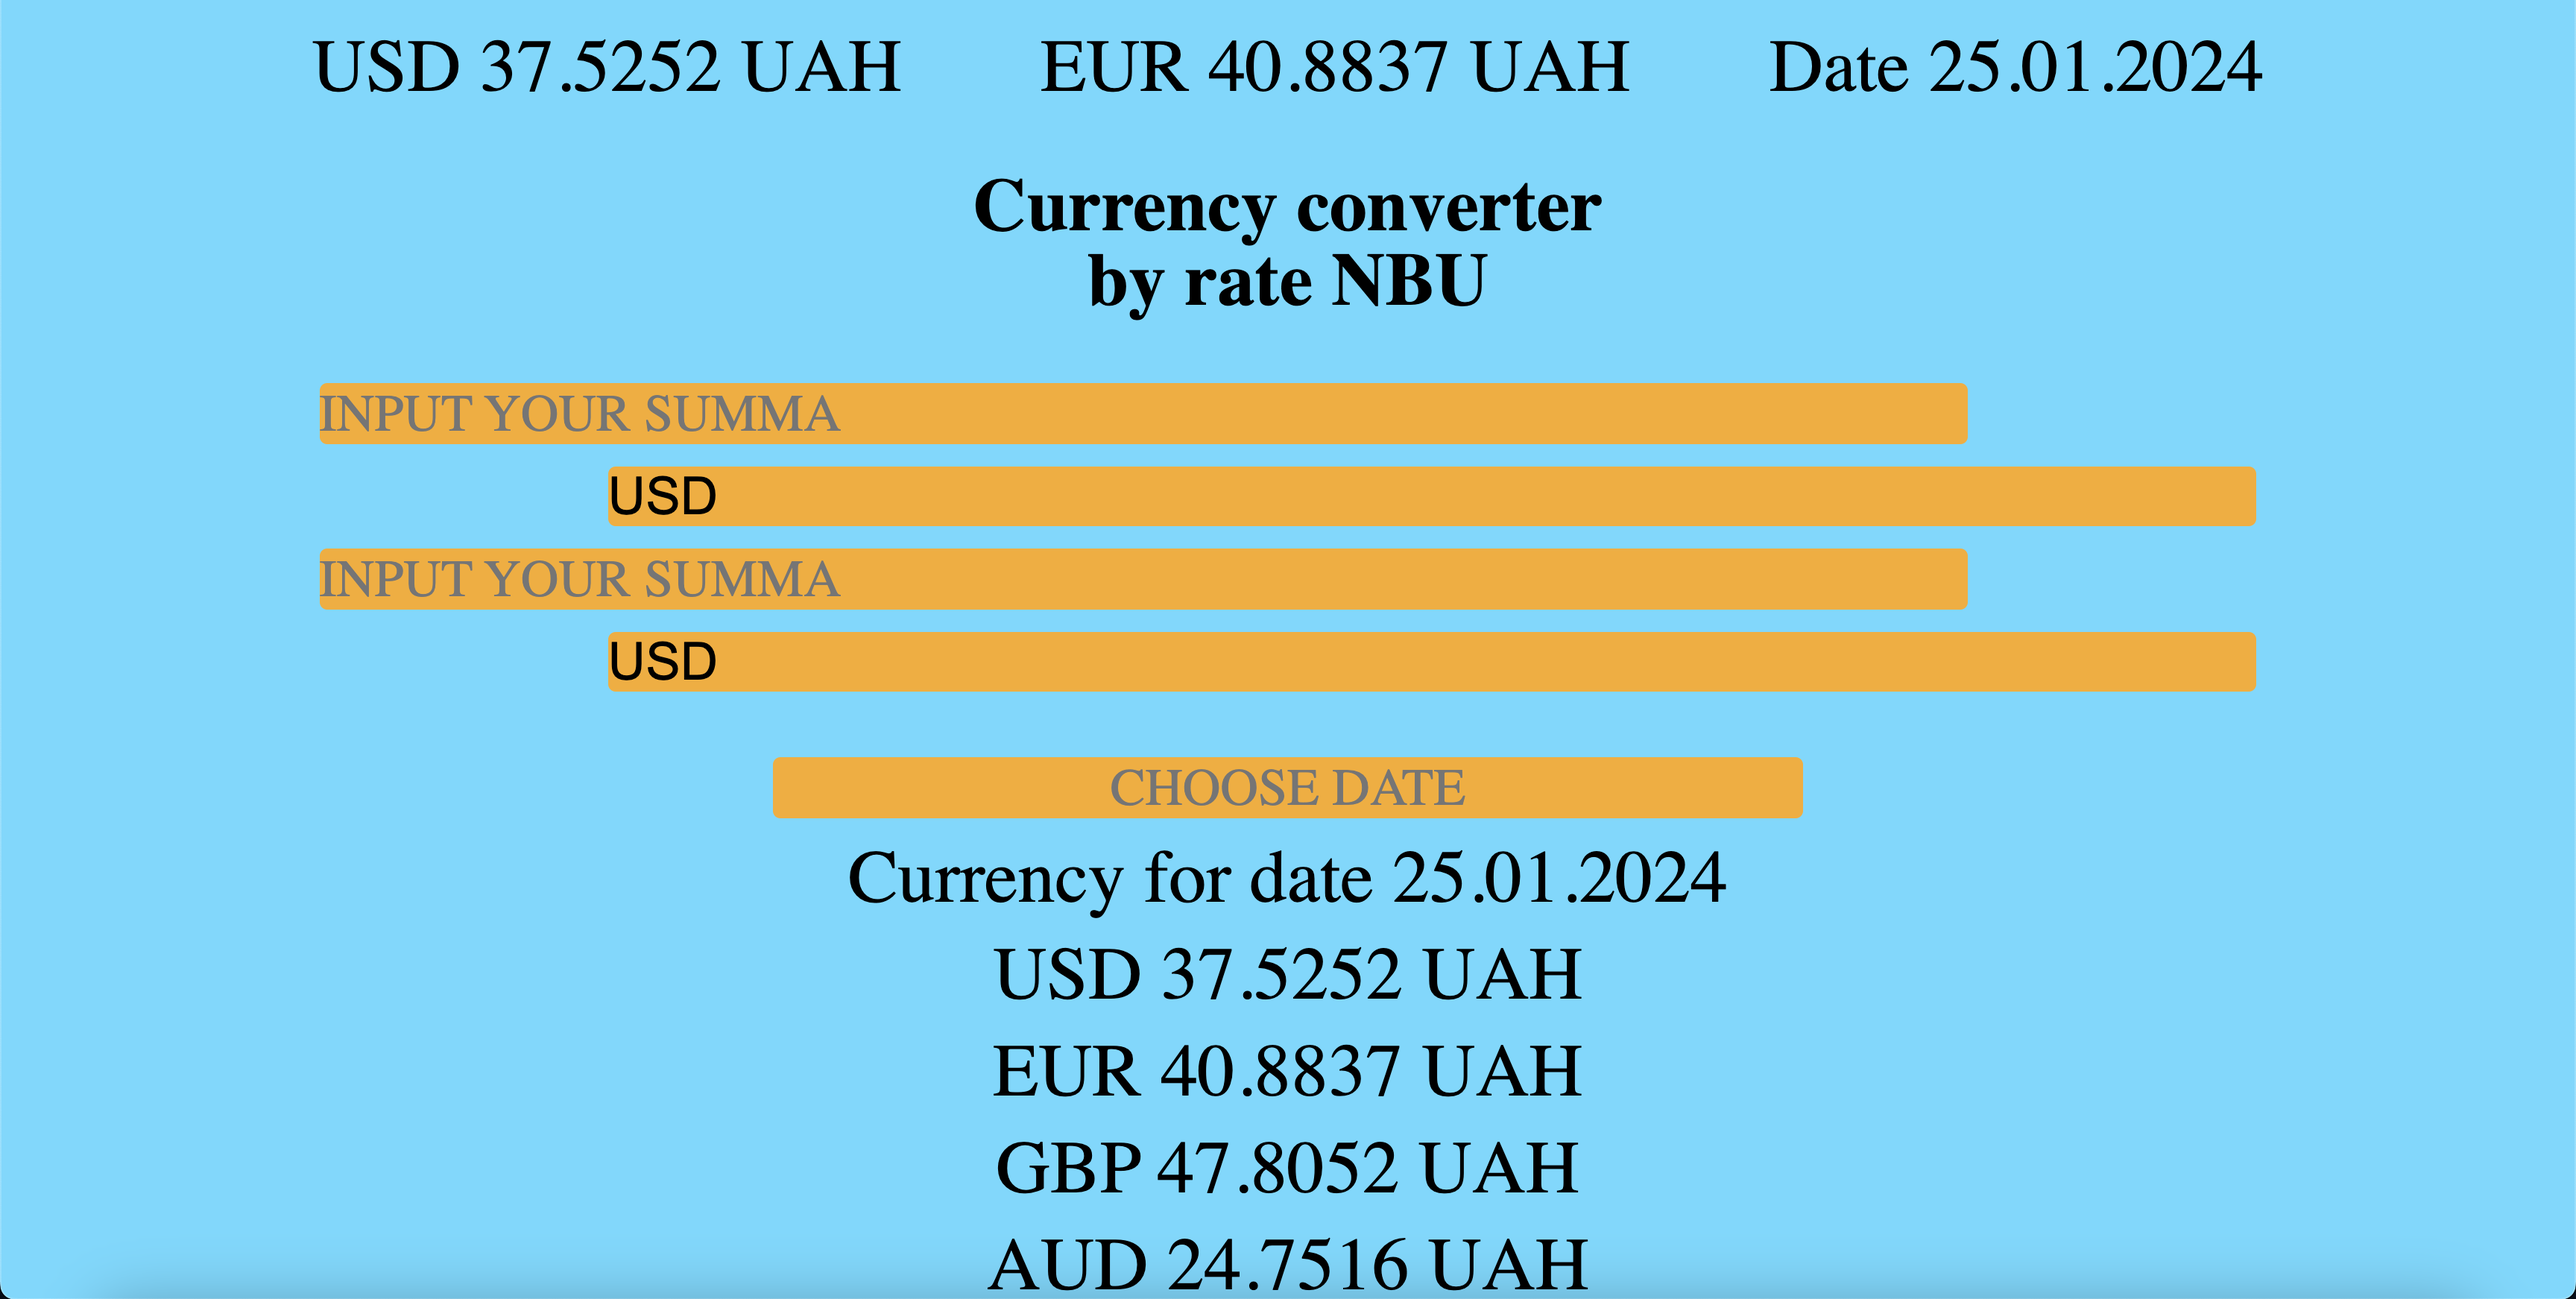
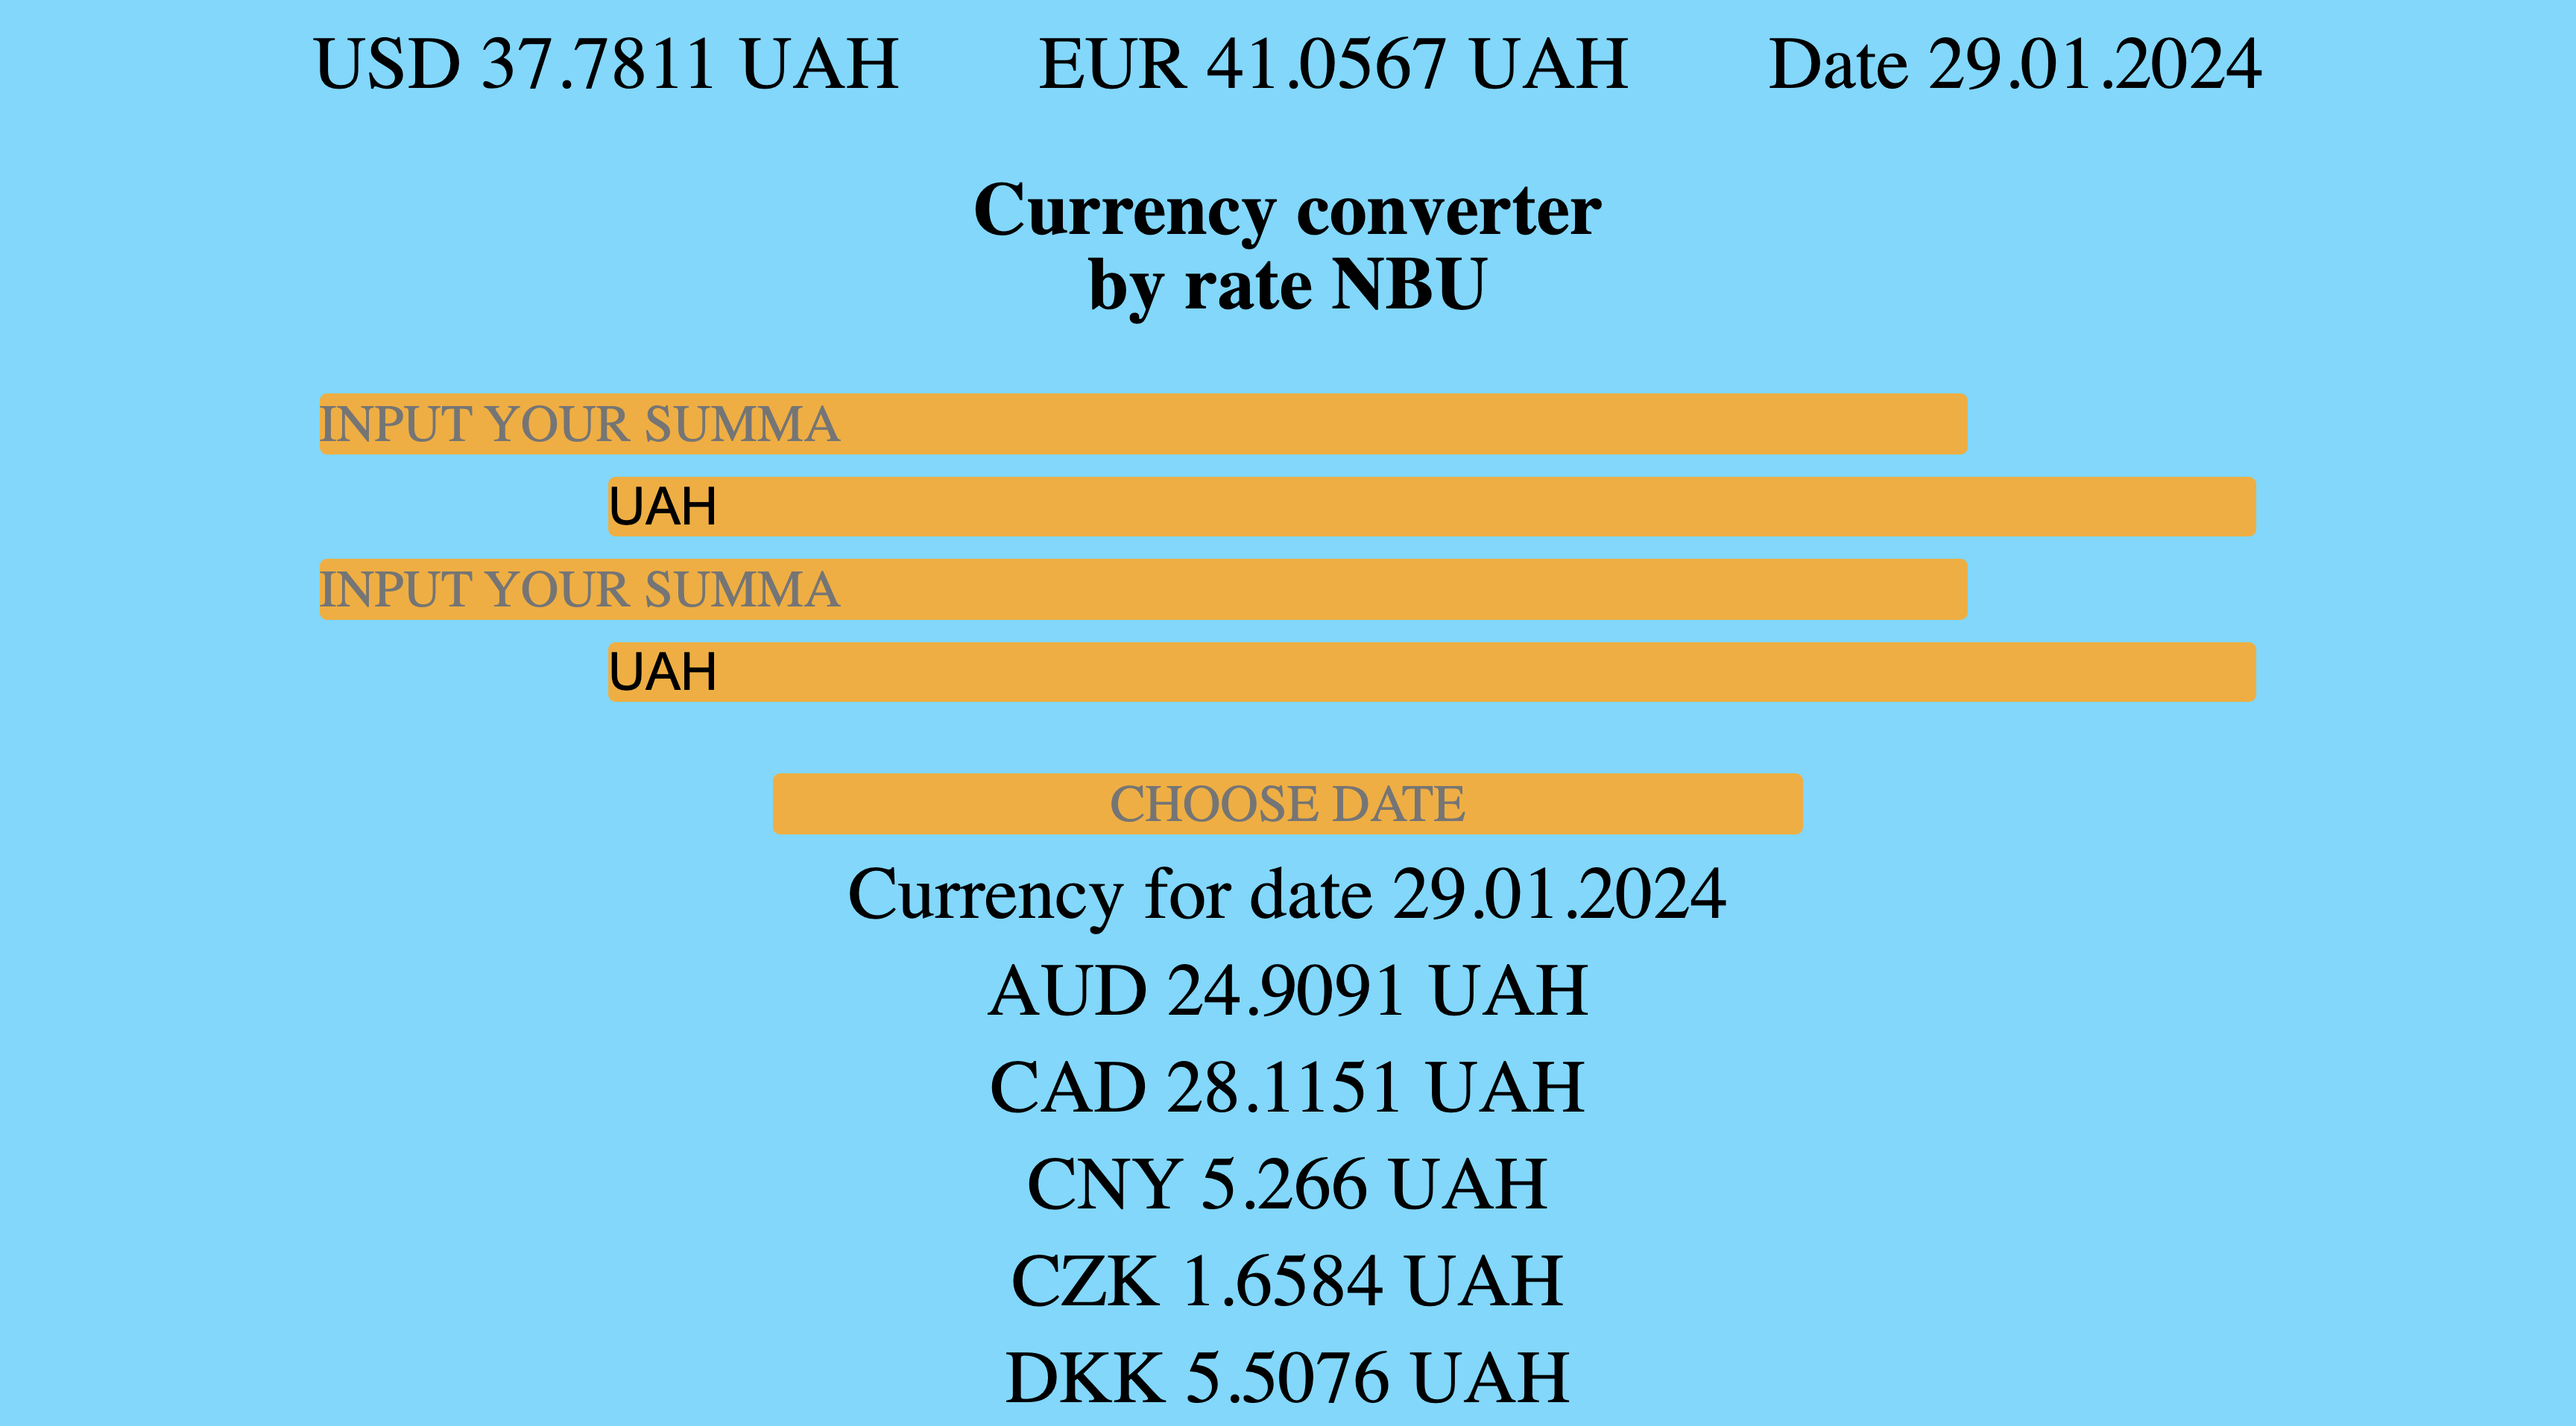
fix a bug, add new currensy

diff --git a/src/app/app.component.ts b/src/app/app.component.ts
@@ -1,4 +1,4 @@
-import { AfterViewChecked, ChangeDetectorRef, Component, DoCheck, OnChanges, SimpleChanges } from '@angular/core';
+import { AfterViewChecked, ChangeDetectorRef, Component } from '@angular/core';
 import { BankNBUService } from './services/bankNBU/bank-nbu.service';
 import { Currency } from './models/currency';
 
@@ -22,6 +22,7 @@ export class AppComponent implements AfterViewChecked {
   private tempSecond: number = 0;
 
   date: string = "";
+  isReset: boolean = false;
   resultFirst: number | null = null;
   resultSecond: number | null = null;
 
@@ -30,8 +31,8 @@ export class AppComponent implements AfterViewChecked {
       this.currency = result;
     });
 
-    this.firstSelect = 'USD';
-    this.secondSelect = 'USD';
+    this.firstSelect = 'UAH';
+    this.secondSelect = 'UAH';
 
     this.firstMap.set('firstSumma', this.firstSumma)
     this.firstMap.set('firstSelect', this.firstSelect)
@@ -43,7 +44,6 @@ export class AppComponent implements AfterViewChecked {
   }
 
   ngAfterViewChecked(): void {
-
     this.isTru();
     this.currencyConverter();
     this.changeDetector.detectChanges();
@@ -73,59 +73,61 @@ export class AppComponent implements AfterViewChecked {
       this.firstMap.set('first', true)
     } else if (this.firstMap.get('firstSelect') != this.firstSelect) {
       this.firstMap.set('firstSelect', this.firstSelect);
-      this.firstMap.set('first', true)
+      this.firstMap.set('first', false)
+      this.secondMap.set('second', false);
+      this.isReset = !this.isReset;
+      return;
     } else if (this.secondMap.get('secondSumma') != this.secondSumma) {
       this.secondMap.set('secondSumma', this.secondSumma);
       this.secondMap.set('second', true);
     } else if (this.secondMap.get('secondSelect') != this.secondSelect) {
       this.secondMap.set('secondSelect', this.secondSelect);
-      this.secondMap.set('second', true);
+      this.firstMap.set('first', false)
+      this.secondMap.set('second', false);
+      this.isReset = !this.isReset;
+      return;
     }
   }
 
-  private currencyConverter() {
+  private currencyConverter(): void {
     this.firstInput();
     this.secondInput();
     this.checkUAH();
   }
 
   private firstInput() {
-    if (this.firstMap.get('first')
-      && this.firstSelect !== 'UAH' && this.secondSelect !== 'UAH') {
+    if (this.firstMap.get('first') && this.firstSelect !== 'UAH' && this.secondSelect !== 'UAH') {
       if (this.firstSelect === this.secondSelect) {
         this.firstMap.set('first', false);
         this.resultSecond = this.firstSumma;
-        this.secondSumma = this.firstSumma;
         return;
       } else if (this.firstSumma === 0 || !this.firstSumma) {
+        this.firstMap.set('first', false);
         return;
       }
       this.tempFirst = this.findCurrency(this.firstSelect) * this.firstSumma;
       this.tempSecond = this.findCurrency(this.secondSelect) * this.firstSumma;
       this.resultSecond = Number(parseFloat(String(this.tempFirst / this.tempSecond * this.firstSumma)).toFixed(4));
 
-      this.secondSumma = this.resultSecond;
       this.firstMap.set('first', false);
       return;
     }
   }
 
   private secondInput() {
-    if (this.secondMap.get('second')
-      && this.firstSelect !== 'UAH' && this.secondSelect !== 'UAH') {
+    if (this.secondMap.get('second') && this.firstSelect !== 'UAH' && this.secondSelect !== 'UAH') {
       if (this.secondSelect === this.firstSelect) {
         this.secondMap.set('second', false)
         this.resultFirst = this.secondSumma;
-        this.firstSumma = this.secondSumma;
         return;
       } else if (this.secondSumma === 0 || !this.secondSumma) {
+        this.secondMap.set('second', false)
         return;
       }
       this.tempFirst = this.findCurrency(this.firstSelect) * this.secondSumma;
       this.tempSecond = this.findCurrency(this.secondSelect) * this.secondSumma;
       this.resultFirst = Number(parseFloat(String(this.tempSecond / this.tempFirst * this.secondSumma)).toFixed(4));
 
-      this.firstSumma = this.resultFirst;
       this.secondMap.set('second', false)
       return;
     }
@@ -135,33 +137,37 @@ export class AppComponent implements AfterViewChecked {
     if (this.firstSelect === 'UAH' && this.secondSelect !== 'UAH') {
       if (this.firstMap.get('first')) {
         if (!this.firstSumma) {
+          this.firstMap.set('first', false);
           return;
         }
         this.resultSecond = Number(parseFloat(String(this.firstSumma / this.findCurrency(this.secondSelect))).toFixed(4));
-        this.secondSumma = this.resultSecond;
+
         this.firstMap.set('first', false);
       } else if (this.secondMap.get('second')) {
         if (!this.secondSumma) {
+          this.secondMap.set('second', false)
           return;
         }
         this.resultFirst = Number(parseFloat(String(this.secondSumma * this.findCurrency(this.secondSelect))).toFixed(4));
-        this.firstSumma = this.resultFirst;
+
         this.secondMap.set('second', false)
       }
     } else if (this.firstSelect !== 'UAH' && this.secondSelect === 'UAH') {
       if (this.firstMap.get('first')) {
         if (!this.firstSumma) {
+          this.firstMap.set('first', false);
           return;
         }
         this.resultSecond = Number(parseFloat(String(this.firstSumma * this.findCurrency(this.firstSelect))).toFixed(4));
-        this.secondSumma = this.resultSecond;
+
         this.firstMap.set('first', false);
       } else if (this.secondMap.get('second')) {
         if (!this.secondSumma) {
+          this.secondMap.set('second', false)
           return;
         }
         this.resultFirst = Number(parseFloat(String(this.secondSumma / this.findCurrency(this.firstSelect))).toFixed(4));
-        this.firstSumma = this.resultFirst;
+
         this.secondMap.set('second', false)
       }
     } else if (this.secondSelect === 'UAH' && this.firstSelect === 'UAH') {

diff --git a/src/app/components/select/select.component.ts b/src/app/components/select/select.component.ts
@@ -1,4 +1,6 @@
 import { Component, EventEmitter, Output } from '@angular/core';
+import { Currency } from 'src/app/models/currency';
+import { BankNBUService } from 'src/app/services/bankNBU/bank-nbu.service';
 
 @Component({
   selector: 'app-select',
@@ -7,6 +9,13 @@ import { Component, EventEmitter, Output } from '@angular/core';
 })
 export class SelectComponent {
   @Output() outSelectCurrency = new EventEmitter<string>();
+  currency: Currency[] = [];
+
+  constructor(private bankNBU: BankNBUService) {
+    bankNBU.search().subscribe(result => {
+      this.currency = result;
+    });
+  }
 
   enterCurrency(selectElement: HTMLSelectElement) {
     this.outSelectCurrency.emit(selectElement.value);

diff --git a/src/app/components/li-currency/li-currency.component.html b/src/app/components/li-currency/li-currency.component.html
@@ -1,10 +1,4 @@
 <ul>
   <li>Currency for date {{ !currency[24] ? 0 : currency[24].exchangedate }}</li>
-  <li>USD {{ !currency[24] ? 0 : currency[24].rate }} UAH</li>
-  <li>EUR {{ !currency[31] ? 0 : currency[31].rate }} UAH</li>
-  <li>GBP {{ !currency[23] ? 0 : currency[23].rate }} UAH</li>
-  <li>AUD {{ !currency[0] ? 0 : currency[0].rate }} UAH</li>
-  <li>CAD {{ !currency[1] ? 0 : currency[1].rate }} UAH</li>
-  <li>CHF {{ !currency[21] ? 0 : currency[21].rate }} UAH</li>
-  <li>JPY {{ !currency[10] ? 0 : currency[10].rate }} UAH</li>
+  <li *ngFor="let cur of currency">{{ cur.cc }} {{ cur.rate }} UAH</li>
 </ul>

diff --git a/src/app/components/select/select.component.html b/src/app/components/select/select.component.html
@@ -1,10 +1,12 @@
 <select name="select" (change)="enterCurrency(selectElement)" #selectElement>
-  <option value="USD" selected>USD</option>
+  <!-- <option value="USD" selected>USD</option>
   <option value="UAH">UAH</option>
   <option value="EUR">EUR</option>
   <option value="GBP">GBP</option>
   <option value="AUD">AUD</option>
   <option value="CAD">CAD</option>
   <option value="CHF">CHF</option>
-  <option value="JPY">JPY</option>
+  <option value="JPY">JPY</option> -->
+  <option value="UAH" selected>UAH</option>
+  <option *ngFor="let cur of currency" [value]="cur.cc">{{ cur.cc }}</option>
 </select>

diff --git a/src/app/components/input/input.component.ts b/src/app/components/input/input.component.ts
@@ -9,6 +9,7 @@ export class InputComponent implements DoCheck, OnChanges {
 
   @Output() outInputSumma = new EventEmitter<number | null>();
   @Input() userSumma: number | null = null;
+  @Input() isResetInput: boolean = false;
   outUserSumma: number | null = null;
 
   ngDoCheck(): void {
@@ -16,6 +17,9 @@ export class InputComponent implements DoCheck, OnChanges {
   }
 
   ngOnChanges(changes: SimpleChanges): void {
-    this.outUserSumma = changes['userSumma'].currentValue;
+    if (changes['isResetInput']) {
+      this.userSumma = null;
+      this.outUserSumma = null;
+    }
   }
 }

diff --git a/src/app/app.component.html b/src/app/app.component.html
@@ -10,11 +10,13 @@
     <app-input
       (outInputSumma)="addUserSummaFirst($event)"
       [userSumma]="resultFirst"
+      [isResetInput]="isReset"
     ></app-input>
     <app-select (outSelectCurrency)="addUserSelectFirst($event)"></app-select>
     <app-input
       (outInputSumma)="addUserSummaSecond($event)"
       [userSumma]="resultSecond"
+      [isResetInput]="isReset"
     ></app-input>
     <app-select (outSelectCurrency)="addUserSelectSecond($event)"></app-select>
   </div>
